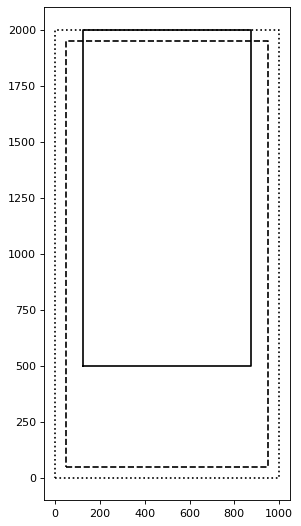
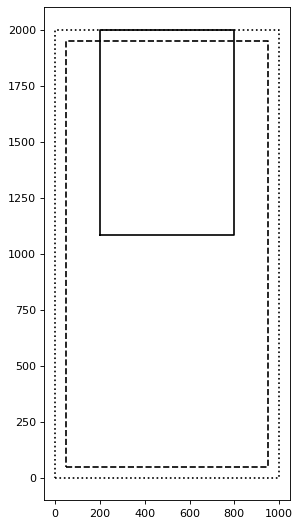
integrated binary thresholding

Changed region(s): [[0.2691, 0.0304, 0.8372, 0.6996]]

diff --git a/app/app.py b/app/app.py
@@ -7,17 +7,19 @@ import copy
 import math
 
 from PyQt6.QtCore import Qt, pyqtSignal
-from PyQt6.QtWidgets import QApplication, QMainWindow, QWidget, QHBoxLayout, QVBoxLayout, QPushButton, QLabel, QStackedWidget, QFileDialog, QButtonGroup, QComboBox, QLineEdit
-from PyQt6.QtGui import QPixmap, QFontDatabase, QPalette, QBrush
+from PyQt6.QtWidgets import QApplication, QMainWindow, QWidget, QHBoxLayout, QVBoxLayout, QPushButton, QLabel, QStackedWidget, QFileDialog, QLineEdit, QSlider
+from PyQt6.QtGui import QPixmap, QFontDatabase
 
-from filepaths import * # paths to data folders
+from filepaths import * 
 
 from utils.stl_parser import STLParser
+
 from utils.router_util import RouterUtil
 from utils.plate_util import PlateUtil
 from utils.value_conversion import parse_text
-from app.utils.image_conversion.image_converter import ImageConverter
-from utils.image_conversion.constants import SUPPORTED_IMAGE_FORMATS
+
+from utils.image_conversion.image_converter import ImageConverter
+from utils.image_conversion.constants import SUPPORTED_IMAGE_FORMATS, RAW_EXTENSION, BINARY_EXTENSION, CONTOUR_EXTENSION, FLATTENED_EXTENSION
 
 class App(QApplication):
 
@@ -1004,7 +1006,7 @@ class InventoryWidget(WidgetTemplate):
             return
     
         self.image_editor_active = True
-        self._create_image_edit_window()
+        self._create_image_edit_window(filename)
 
     def on_plate_delete_requested(self, filename: str):
         index = self._get_idx_of_filename(filename)
@@ -1022,8 +1024,14 @@ class InventoryWidget(WidgetTemplate):
             self.app.apply_stylesheet(self.__add_new_button, "generic-button.css")
         self.__add_new_button.setText(f"Add New ({self._get_plate_amount()}/{self.app.PLATE_LIMIT})")
 
-    def _create_image_edit_window(self):
-        self.image_editor = ImageEditorWindow(self.app) # necessary to keep reference to prevent immediate closure
+    def _create_image_edit_window(self, filename: str):
+        
+        plate_idx = self._get_idx_of_filename(filename)
+        plate_dimensions = tuple([self.app.plate_data[plate_idx][key] for key in ['width_(x)', 'height_(y)', 'thickness_(z)']])
+
+        self.image_converter = ImageConverter(IMAGE_PREVIEW_DATA_PATH, plate_dimensions)
+
+        self.image_editor = ImageEditorWindow(self.app, self.image_converter) # necessary to keep reference to prevent immediate closure
         self.image_editor.imageEditorClosed.connect(self.on_image_editor_closed)
 
     def on_image_editor_closed(self):
@@ -1038,9 +1046,11 @@ class ImageEditorWindow(QMainWindow):
 
     imageEditorClosed = pyqtSignal()
 
-    def __init__(self, app_instance: App):
+    def __init__(self, app_instance: App, image_converter_instance: ImageConverter):
         super().__init__()
+
         self.app = app_instance
+        self.image_converter = image_converter_instance
 
         self.setMinimumSize(self.MIN_WIDTH, self.MIN_HEIGHT)
         self.setWindowTitle(self.WINDOW_TITLE)
@@ -1051,6 +1061,8 @@ class ImageEditorWindow(QMainWindow):
         self.__layout = QVBoxLayout()
         self.__layout.setContentsMargins(0, 0, 0, 0) 
         self.__layout.setSpacing(0)
+        self.image_editor = ImageEditorWidget(self.app, self.image_converter)
+        self.__layout.addWidget(self.image_editor)
         self.__widget = QWidget()
         self.__widget.setLayout(self.__layout)
         self.setCentralWidget(self.__widget)
@@ -1062,31 +1074,153 @@ class ImageEditorWindow(QMainWindow):
 
 class ImageEditorWidget(QStackedWidget):
 
-    def __init__(self, app_instance: App):
+    def __init__(self, app_instance: App, image_converter_instance: ImageConverter):
         super().__init__()
         self.app = app_instance
+        self.image_converter = image_converter_instance
+        self.__init_gui__()
 
     def __init_gui__(self):
 
-        self.load_image_widget = QWidget()
-        self.load_image_layout = QVBoxLayout()
-        
-        self.load_image_button = QPushButton("Load Image Files")
-        self.load_image_button.pressed.connect(self.import_image_file)
+        self.app.apply_stylesheet(self, 'light.css')
+
+        self.setCurrentIndex(0)
+
+        params = (self.app, self.image_converter)
+
+        self.image_load_widget = ImageLoadWidget(*params)
+        self.image_load_widget.imageImported.connect(self.on_image_imported)
+
+        self.image_threshold_widget = ImageThresholdWidget(*params)
+        self.image_threshold_widget.binaryFinalized.connect(self.on_binary_finalized)
+
+        for widget in [self.image_load_widget, self.image_threshold_widget]:
+            self.addWidget(widget)
+
+    def on_image_imported(self):
+        self.setCurrentIndex(1)
+        self.image_threshold_widget.update_preview()
     
+    def on_binary_finalized(self):
+        self.setCurrentIndex(2)
+    
+class ImageLoadWidget(QWidget):
+
+    imageImported = pyqtSignal()
+
+    def __init__(self, app_instance: App, image_converter_instance: ImageConverter):
+        super().__init__()
+        self.app = app_instance
+        self.image_converter = image_converter_instance
+        self.__init_gui__()
+    
+    def __init_gui__(self):
+        self.main_layout = QVBoxLayout()
+
+        self.button_frame = QWidget()
+        self.button_frame_layout = QHBoxLayout()
+        self.import_button = QPushButton("Import Image File")
+        self.app.apply_stylesheet(self.import_button, 'generic-button.css')
+        self.import_button.pressed.connect(self.import_image_file)
+
+        self.button_frame_layout.addStretch(2)
+        self.button_frame_layout.addWidget(self.import_button, 1)
+        self.button_frame_layout.addStretch(2)
+        self.button_frame.setLayout(self.button_frame_layout)
+
+        self.main_layout.addStretch(3)
+        self.main_layout.addWidget(self.button_frame, 1)
+        self.main_layout.addStretch(3)
+
+        self.setLayout(self.main_layout)
+
     def import_image_file(self):
  
-        file_path, _ = QFileDialog.getOpenFileName(self, "Select File", "", "All Files (*)") # change to all valid files mentioned in image constants
+        file_path, _ = QFileDialog.getOpenFileName(self, "Select File", "", SUPPORTED_IMAGE_FORMATS)
+        self.image_converter.save_external_image_as_raw(file_path)
+        self.imageImported.emit()
 
+class ImageThresholdWidget(QWidget):
 
+    binaryFinalized = pyqtSignal()
 
+    COLOR_MIN = 0
+    COLOR_MAX = 255
+    COLOR_MID = (COLOR_MIN + COLOR_MAX)//2
 
+    def __init__(self, app_instance: App, image_converter_instance: ImageConverter):
+        super().__init__()
 
+        self.app = app_instance
+        self.image_converter = image_converter_instance
+        
+        self.threshold = self.COLOR_MID
 
+        self.__init_gui__()
 
+    def __init_gui__(self):
+        self.layout_with_margins = QHBoxLayout()
 
+        self.main_widget = QWidget()
+        self.main_layout = QVBoxLayout()
 
+        self.preview_widget = QLabel()
+        self.preview_widget.setAlignment(Qt.AlignmentFlag.AlignCenter)
 
+        self.slider_label = QLabel("Adjust Threshold Value")
+        self.slider_label.setAlignment(Qt.AlignmentFlag.AlignCenter)
+        self.app.apply_stylesheet(self.slider_label, 'small-text.css')
+
+        self.slider = QSlider()
+        self.slider.setOrientation(Qt.Orientation.Horizontal) 
+        self.slider.setMinimum(self.COLOR_MIN)
+        self.slider.setMaximum(self.COLOR_MAX)
+        self.slider.setValue(self.COLOR_MID)
+
+        self.slider.setTickPosition(QSlider.TickPosition.TicksBelow)  
+        self.slider.setTickInterval(16)
+
+        self.slider.valueChanged.connect(self.on_threshold_parameter_edited)
+
+        self.save_button_wrapper = QWidget()
+        self.save_button_wrapper_layout = QHBoxLayout()
+        self.save_button = QPushButton("Save Binary")
+        self.save_button.pressed.connect(self.on_save_button_pressed)
+        self.app.apply_stylesheet(self.save_button, 'small-button.css')
+
+        self.save_button_wrapper_layout.addStretch(2)
+        self.save_button_wrapper_layout.addWidget(self.save_button, 1)
+        self.save_button_wrapper_layout.addStretch(2)
+        self.save_button_wrapper.setLayout(self.save_button_wrapper_layout)
+
+        self.main_layout.addWidget(self.preview_widget, 3)
+        self.main_layout.addWidget(self.slider_label, 0)
+        self.main_layout.addWidget(self.slider, 1)
+        self.main_layout.addWidget(self.save_button_wrapper, 0)
+        self.main_widget.setLayout(self.main_layout)
+
+        self.layout_with_margins.addStretch(1)
+        self.layout_with_margins.addWidget(self.main_widget, 5)
+        self.layout_with_margins.addStretch(1)
+
+        self.setLayout(self.layout_with_margins)
+
+    def _generate_binary(self):
+        self.image_converter.save_binary_image(self.threshold)
+
+    def update_preview(self):
+        self._generate_binary()
+        binary_path = os.path.join(IMAGE_PREVIEW_DATA_PATH, BINARY_EXTENSION)
+        pixmap = QPixmap(binary_path)
+        scaled_pixmap = pixmap.scaledToHeight(600)
+        self.preview_widget.setPixmap(scaled_pixmap)
+    
+    def on_threshold_parameter_edited(self, value: int):
+        self.threshold = value
+        self.update_preview()
+
+    def on_save_button_pressed(self):
+        self.binaryFinalized.emit()
 
 if __name__ == '__main__':
     app = App(sys.argv)

diff --git a/app/utils/image_conversion/image_converter.py b/app/utils/image_conversion/image_converter.py
@@ -4,22 +4,19 @@ import numpy as np
 import cv2
 from typing import Tuple
 
-from .constants import MAX_PPMM, MAX_PROCESSING_WIDTH, MAX_PROCESSING_HEIGHT, NONE_STATE, RAW_STATE, BINARY_STATE, CONTOUR_STATE, FLATTENED_STATE, RAW_EXTENSION, BINARY_EXTENSION, CONTOUR_EXTENSION, FLATTENED_EXTENSION 
+from .constants import *
 
-import app.utils.image_conversion.img_util as img_util
+from .util_funcs import read_image, write_image, resize_image, convert_image_to_binary, apply_color_mask, get_transformation_matrix, warp_perspective, clear_all_files
 from .feat_mgr import FeatureManager
 
 class ImageConverter:
 
-    def __init__(self, preview_folder_path: str, plate_size: Tuple[int, int, int], colors: Tuple): 
+    def __init__(self, preview_folder_path: str, plate_size: Tuple[int, int, int], colors: dict = DEFAULT_COLORS): 
 
         if not os.path.exists(preview_folder_path):
             raise FileNotFoundError("Indicated preview path does not exist")
-
-        if len(colors) != 5:
-            raise ValueError("ImageConverter requires 5 colors to initialize")
         
-        for color in colors:
+        for color in colors.values():
             if len(color) != 3:
                 raise ValueError("Colors must be comprised of 3 integers")
             
@@ -33,13 +30,16 @@ class ImageConverter:
         self.output_resolution = [plate_size[0]*MAX_PPMM, plate_size[1]*MAX_PPMM]
 
         self.preview_folder_path = preview_folder_path
-
-        self.colors = colors # necessary for feature controller
-        self.background_color = colors[0]
-        self.contour_color = colors[1]
-        self.selected_element_color = colors[2]
-        self.plate_edge_color = colors[3]
-        self.corner_color = colors[4]
+        
+        try:
+            self.colors = colors # necessary for feature controller
+            self.background_color = colors['background_color']
+            self.contour_color = colors['contour_color']
+            self.selected_element_color = colors['selected_element_color']
+            self.plate_edge_color = colors['plate_edge_color']
+            self.corner_color = colors['corner_color']
+        except(KeyError):
+            raise KeyError("Color dict missing keys")
 
     def _check_state(self, min_state, max_state):
         if self.state < min_state:
@@ -49,16 +49,16 @@ class ImageConverter:
 
     def reset_preview(self):
         try:
-            img_util.clear_all_files(self.preview_folder_path)
+            clear_all_files(self.preview_folder_path)
         except(Exception) as e:
             print(e)
 
     def save_external_image_as_raw(self, external_image_path): 
         try:
             self._check_state(NONE_STATE, NONE_STATE)
-            image = img_util.read_image(external_image_path, True)
-            image = img_util.resize_image(image, MAX_PROCESSING_WIDTH, MAX_PROCESSING_HEIGHT)
-            img_util.write_image(self.preview_folder_path, RAW_EXTENSION, image)
+            image = read_image(external_image_path, True)
+            image = resize_image(image, MAX_PROCESSING_WIDTH, MAX_PROCESSING_HEIGHT)
+            write_image(self.preview_folder_path, RAW_EXTENSION, image)
             self.state = RAW_STATE
                 
         except(Exception) as e:
@@ -68,9 +68,9 @@ class ImageConverter:
         try:
             self._check_state(RAW_STATE, BINARY_STATE)
             raw_image_path = os.path.join(self.preview_folder_path, RAW_EXTENSION)
-            image = img_util.read_image(raw_image_path, True)
-            image = img_util.convert_image_to_binary(image, threshold_value)
-            img_util.write_image(self.preview_folder_path, BINARY_EXTENSION, image)
+            image = read_image(raw_image_path, True)
+            image = convert_image_to_binary(image, threshold_value)
+            write_image(self.preview_folder_path, BINARY_EXTENSION, image)
             self.processing_resolution = image.shape[:2]
             self.state = BINARY_STATE
         
@@ -82,7 +82,7 @@ class ImageConverter:
             self._check_state(BINARY_STATE, BINARY_STATE)
             self.feature_manager.draw_features()
             image = self.feature_manager.feature_canvas
-            img_util.write_image(self.preview_folder_path, CONTOUR_EXTENSION, image)
+            write_image(self.preview_folder_path, CONTOUR_EXTENSION, image)
             self.state = CONTOUR_STATE
         
         except(Exception) as e:
@@ -99,10 +99,10 @@ class ImageConverter:
         try:
             self._check_state(BINARY_STATE, CONTOUR_STATE)
             binary_image_path = os.path.join(self.preview_folder_path, BINARY_EXTENSION)
-            image = img_util.read_image(binary_image_path, True)
+            image = read_image(binary_image_path, True)
             self.__initialize_feature_manager()
             self.feature_manager.get_features(image)
-            img_util.write_image(self.preview_folder_path, CONTOUR_EXTENSION, image)
+            write_image(self.preview_folder_path, CONTOUR_EXTENSION, image)
 
         except(Exception) as e:
             print(e)
@@ -112,7 +112,7 @@ class ImageConverter:
             
             self._check_state(CONTOUR_STATE)
             contour_image_path = os.path.join(self.preview_folder_path, CONTOUR_EXTENSION)
-            image = img_util.read_image(contour_image_path, True)
+            image = read_image(contour_image_path, True)
             width, height = self.output_resolution
 
             top_left = [0, 0]
@@ -123,11 +123,11 @@ class ImageConverter:
             initial_corner_points = self.feature_manager.corners
             final_corner_points = np.array([top_left, top_right, bottom_left, bottom_right], dtype=np.float32)
 
-            transformation_matrix = img_util.get_transformation_matrix(initial_corner_points, final_corner_points)
-            image = img_util.warp_perspective(image, transformation_matrix, (width, height))
-            image = img_util.apply_color_mask(image, self.background_color, self.contour_color)
+            transformation_matrix = get_transformation_matrix(initial_corner_points, final_corner_points)
+            image = warp_perspective(image, transformation_matrix, (width, height))
+            image = apply_color_mask(image, self.background_color, self.contour_color)
 
-            img_util.write_image(self.preview_folder_path, FLATTENED_EXTENSION, image)
+            write_image(self.preview_folder_path, FLATTENED_EXTENSION, image)
             self.state = FLATTENED_STATE
             
         except(Exception) as e:

diff --git a/app/utils/image_conversion/constants.py b/app/utils/image_conversion/constants.py
@@ -1,4 +1,5 @@
-SUPPORTED_IMAGE_FORMATS = ['bmp', 'dib', 'jpeg', 'jpg', 'jp2', 'png', 'webp', 'avif']
+SUPPORTED_IMAGE_EXTENSIONS = ['bmp', 'dib', 'jpeg', 'jpg', 'jp2', 'png', 'webp', 'avif']
+SUPPORTED_IMAGE_FORMATS = "Image Files (*.bmp *.dib *.jpeg *.jpg *.jp2 *.png *.webp *.avif)" # for QFileDialog
 MAX_PROCESSING_WIDTH = 2000
 MAX_PROCESSING_HEIGHT = 2000
 MAX_PPMM = 4 # pixels/mm for final image
@@ -27,3 +28,11 @@ RAW_EXTENSION = 'raw.png'
 BINARY_EXTENSION = 'bin.png'
 CONTOUR_EXTENSION = 'contours.png'
 FLATTENED_EXTENSION = 'flattened.png'
+
+DEFAULT_COLORS = {
+    'background_color': (255, 255, 255),
+    'contour_color': (100, 100, 100),
+    'selected_element_color': (255, 0, 0),
+    'plate_edge_color': (0, 0, 0),
+    'corner_color': (0, 255, 0)
+}
